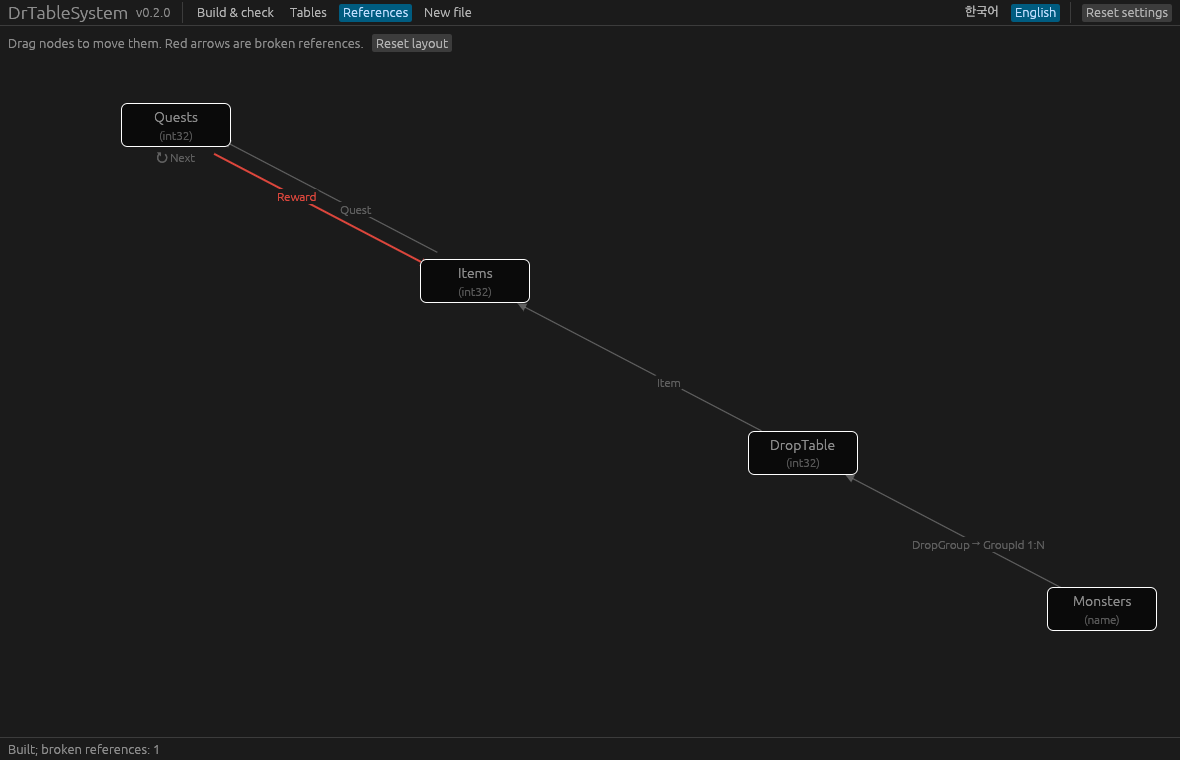
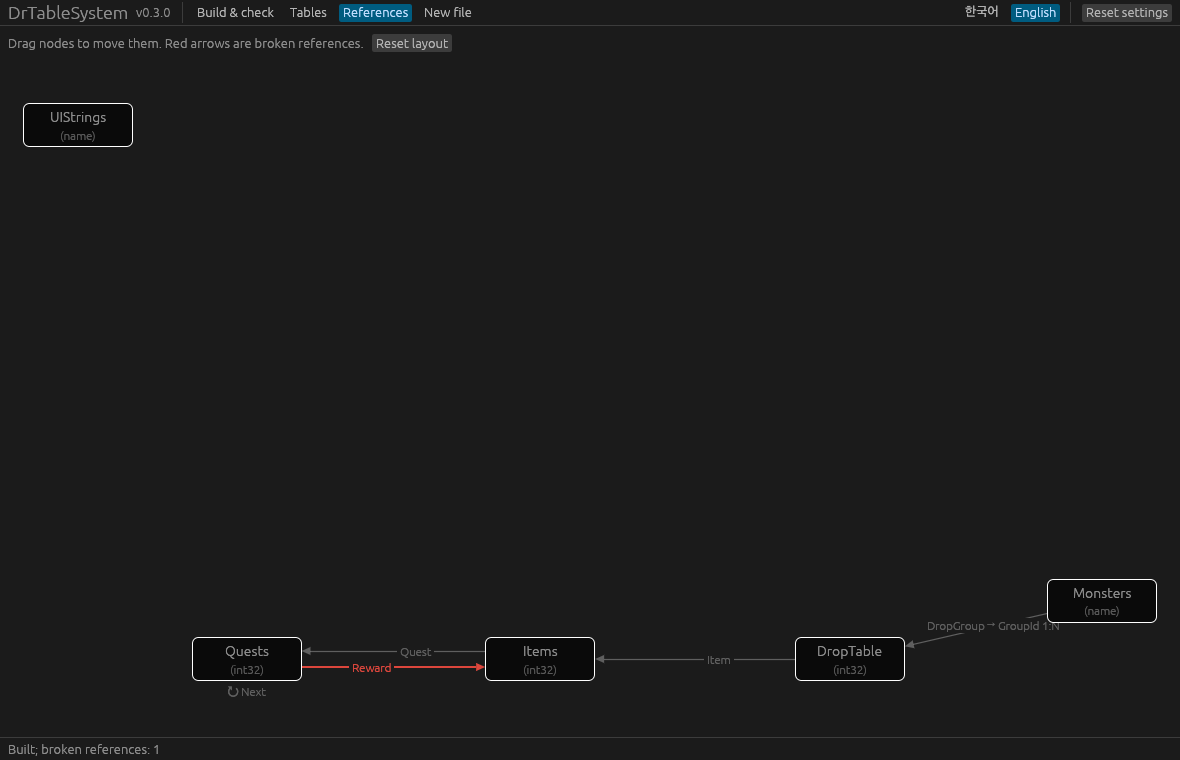
0.3.0: GUI strings folder setting, string tables listed separately, screenshots
- drtable-gui: "Strings folder" setting (and --strings start-up option); string
  tables have their own group in the Tables tab and show the base language role;
  opening a string data file outside the data folder resolves its path.
- Version 0.3.0 (drtable, plugin VersionName 0.3.0), CHANGELOG 0.3.0.
- Manual screenshots regenerated; new strings.png in chapter 8.

Claude-Session: https://claude.ai/code/session_016ZSFGbiCnqUvygNywMoQZv

diff --git a/rust/src/gui.rs b/rust/src/gui.rs
@@ -11,7 +11,7 @@ use crate::errors::{ErrorCollector, ValidationErrors};
 use crate::excel::{load_model, DataModel};
 use crate::i18n::{self, tr};
 use crate::schema::{in_scopes, CLIENT_SCOPES, SERVER_SCOPES};
-use crate::schemafile::{enum_folder, folder_of, load_schemas};
+use crate::schemafile::{enum_folder, folder_of, load_schemas, strings_folder};
 use crate::{check, headers, VERSION};
 use eframe::egui::{self, Align2, Color32, FontId, Pos2, Rect, Sense, Stroke, StrokeKind, Vec2};
 use serde::{Deserialize, Serialize};
@@ -63,6 +63,7 @@ impl Launch {
                 "input" => &mut settings.input,
                 "schema" => &mut settings.schema,
                 "enums" => &mut settings.enums,
+                "strings" => &mut settings.strings,
                 "out-cpp" => &mut settings.out_cpp,
                 "out-client" => &mut settings.out_client,
                 "out-server" => &mut settings.out_server,
@@ -87,6 +88,7 @@ struct Settings {
     input: String,
     schema: String,
     enums: String,
+    strings: String,
     out_cpp: String,
     out_client: String,
     out_server: String,
@@ -104,6 +106,7 @@ impl Default for Settings {
             input: String::new(),
             schema: String::new(),
             enums: String::new(),
+            strings: String::new(),
             out_cpp: String::new(),
             out_client: String::new(),
             out_server: String::new(),
@@ -123,6 +126,15 @@ impl Settings {
 
     fn enum_root(&self) -> Option<PathBuf> {
         (!self.enums.trim().is_empty()).then(|| PathBuf::from(self.enums.trim()))
+    }
+
+    fn strings_root(&self) -> Option<PathBuf> {
+        (!self.strings.trim().is_empty()).then(|| PathBuf::from(self.strings.trim()))
+    }
+
+    /// The string table data folder in use: the one set, or "Strings" next to the schema folder.
+    fn strings_folder(&self) -> PathBuf {
+        strings_folder(&self.schema_root(), self.strings_root().as_deref(), !self.schema.trim().is_empty())
     }
 
     /// The enum folder in use: the one set, or "Enums" next to the schema folder
@@ -286,7 +298,8 @@ fn check_or_build(settings: &Settings, build: bool) -> Outcome {
     }
     let schema = (!settings.schema.trim().is_empty()).then(|| PathBuf::from(settings.schema.trim()));
     let enums = settings.enum_root();
-    let model = match load_model(&input, schema.as_deref(), enums.as_deref(), None) {
+    let strings = settings.strings_root();
+    let model = match load_model(&input, schema.as_deref(), enums.as_deref(), strings.as_deref()) {
         Ok(model) => model,
         Err(ValidationErrors(errors)) => {
             let count = errors.len();
@@ -465,6 +478,7 @@ impl App {
             path_row(ui, &tr("데이터 폴더", "Data folder"), &mut s.input, Pick::Folder);
             path_row(ui, &tr("스키마 폴더 (비우면 데이터 폴더)", "Schema folder (empty: data folder)"), &mut s.schema, Pick::Folder);
             path_row(ui, &tr("열거형 폴더 (비우면 스키마 폴더 옆 Enums)", "Enum folder (empty: Enums next to the schema folder)"), &mut s.enums, Pick::Folder);
+            path_row(ui, &tr("스트링 폴더 (비우면 스키마 폴더 옆 Strings)", "Strings folder (empty: Strings next to the schema folder)"), &mut s.strings, Pick::Folder);
             path_row(ui, &tr("C++ 출력", "C++ output"), &mut s.out_cpp, Pick::Folder);
             path_row(ui, &tr("클라 JSON 출력", "Client JSON output"), &mut s.out_client, Pick::Folder);
             path_row(ui, &tr("서버 JSON 출력", "Server JSON output"), &mut s.out_server, Pick::Folder);
@@ -526,16 +540,26 @@ impl App {
         };
         let schema_root = self.settings.schema_root();
         let input_root = PathBuf::from(self.settings.input.trim());
+        // String table data outside the data folder is named relative to the folder that holds it.
+        let strings_folder = self.settings.strings_folder();
+        let strings_base = strings_folder.parent().map(Path::to_path_buf).unwrap_or_default();
+        let strings_label = strings_folder.file_name().map(|n| format!("{}/", n.to_string_lossy())).unwrap_or_default();
         egui::Panel::left("table-list").resizable(true).default_size(220.0).show(ui, |ui| {
             egui::ScrollArea::vertical().show(ui, |ui| {
-                ui.strong(tr("테이블", "Tables"));
-                for table in &model.tables {
-                    let label = format!("{}  ({})", table.name, table.rows.len());
-                    if ui.selectable_label(self.selected.as_deref() == Some(table.name.as_str()), label).clicked() {
-                        self.selected = Some(table.name.clone());
+                let groups = [(tr("테이블", "Tables"), false), (tr("스트링테이블", "String tables"), true)];
+                for (heading, strings) in groups {
+                    if !model.tables.iter().any(|t| t.is_strings() == strings) {
+                        continue;
                     }
+                    ui.strong(heading);
+                    for table in model.tables.iter().filter(|t| t.is_strings() == strings) {
+                        let label = format!("{}  ({})", table.name, table.rows.len());
+                        if ui.selectable_label(self.selected.as_deref() == Some(table.name.as_str()), label).clicked() {
+                            self.selected = Some(table.name.clone());
+                        }
+                    }
+                    ui.add_space(8.0);
                 }
-                ui.add_space(8.0);
                 ui.strong(tr("열거형", "Enums"));
                 for e in &model.enums {
                     let key = format!("enum:{}", e.name);
@@ -589,6 +613,7 @@ impl App {
                         ui.label(match column.role.as_deref() {
                             Some("id") => tr("기본키", "primary key"),
                             Some("subkey") => tr("서브키", "sub key"),
+                            Some("base") => tr("기준 언어", "base language"),
                             _ => String::new(),
                         });
                         let scope = if in_scopes(&column.scope, &CLIENT_SCOPES) && in_scopes(&column.scope, &SERVER_SCOPES) {
@@ -621,7 +646,12 @@ impl App {
                         ui.monospace(format!("{} / {}", part.file, part.sheet));
                         ui.label(format!("{} {}", part.rows, tr("행", "rows")));
                         if ui.small_button(tr("열기", "Open")).clicked() {
-                            open_path(&input_root.join(&part.file));
+                            let inside = input_root.join(&part.file);
+                            if !inside.exists() && part.file.starts_with(&strings_label) {
+                                open_path(&strings_base.join(&part.file));
+                            } else {
+                                open_path(&inside);
+                            }
                         }
                     });
                 }

diff --git a/docs/ko/manual.md b/docs/ko/manual.md
@@ -296,7 +296,9 @@ const FGmItemsRow* Sword = FGmItemsRow::Find(1001);
 FText Name = Sword->GetName();   // 현재 언어의 ItemStrings 글
 ```
 
-`drtable check`는 스트링테이블 키도 검사합니다.
+`drtable check`는 스트링테이블 키도 검사합니다. GUI의 테이블 탭에는 스트링테이블이 따로 묶여 나옵니다(언어 열과 기준 언어 표시). 빌드·검사 탭에서 스트링 폴더를 정할 수 있습니다.
+
+![스트링테이블](../images/ko/strings.png)
 
 ### 언리얼에서 쓰기
 
@@ -438,7 +440,7 @@ drtable [--lang en|ko] …
 | 탭 | 하는 일 |
 |---|---|
 | 빌드·검사 | 폴더를 고르고 검사 또는 빌드합니다. 빌드한 뒤에는 참조 검사도 함께 돌립니다. 오류·경고는 `[파일]시트!셀` 위치와 함께 표로 나오고, 더블클릭하면 그 파일을 엑셀로 엽니다. |
-| 테이블 | 테이블·열거형 목록, 필드(자료형·키·범위·배열·참조), 스키마 파일, 데이터가 있는 파일·시트와 행 수를 보여 줍니다. |
+| 테이블 | 테이블·스트링테이블·열거형 목록, 필드(자료형·키·범위·배열·참조), 스키마 파일, 데이터가 있는 파일·시트와 행 수를 보여 줍니다. |
 | 참조 그래프 | 테이블 간 참조를 그립니다. 노드를 끌어 옮길 수 있고, 끊긴 참조는 빨간색입니다. 노드를 더블클릭하면 그 테이블로 갑니다. |
 | 새 파일 | `drtable new`로 참고 수식이 든 새 데이터 파일을 만듭니다. 기존 데이터 파일은 고치지 않습니다. |
 

diff --git a/docs/en/manual.md b/docs/en/manual.md
@@ -299,7 +299,9 @@ const FGmItemsRow* Sword = FGmItemsRow::Find(1001);
 FText Name = Sword->GetName();   // ItemStrings text in the current language
 ```
 
-`drtable check` checks string table keys too.
+`drtable check` checks string table keys too. The GUI lists string tables separately in the Tables tab (language columns and the base language), and the strings folder is set in the Build & check tab.
+
+![String tables](../images/en/strings.png)
 
 ### In Unreal
 
@@ -441,7 +443,7 @@ Exit codes: `build`, `graph`, `check --input` and `new` return 0 on success, 1 o
 | Tab | What it does |
 |---|---|
 | Build & check | Pick the folders, then check or build. A build also checks the references in its output. Errors and warnings are listed with their `[File]Sheet!Cell` location; double-click one to open its workbook in Excel. |
-| Tables | Tables and enums with their fields (type, key, scope, array, reference), schema file, and the files and sheets holding their data with row counts. |
+| Tables | Tables, string tables and enums with their fields (type, key, scope, array, reference), schema file, and the files and sheets holding their data with row counts. |
 | References | The reference graph. Drag nodes to move them; broken references are red; double-click a node to open its table. |
 | New file | Creates a new data workbook with the reference formulas (`drtable new`). Existing data workbooks are never changed. |
 

diff --git a/CHANGELOG.md b/CHANGELOG.md
@@ -1,10 +1,11 @@
 # Changelog
 
-## Unreleased
+## 0.3.0
 
 - String tables: `lang` columns with one `Base<lang>`, data in the strings folder (`--strings`, default `Strings` next to the schema folder). Empty translations take the base text at build time; format arguments that differ from the base text are warned. Output per language (`Strings/<culture>/<Table>.json`), no generated code for string tables (`--string-keys` adds optional key constants).
 - `Ref<StringTable>` accessors return the text in the current language.
 - Unreal plugin: per-language string assets and a language list baked by `DrTableBake`; `UDrStringSubsystem` loads only the current language, switches asynchronously, unloads the previous one and fires `OnLanguageChanged`; `UDrLocalizedTextBlock` redraws itself.
+- `drtable-gui`: a strings folder setting, and string tables listed separately.
 - An input folder with no schema and no data workbook is an error (it used to clear the generated code).
 
 ## 0.2.0
